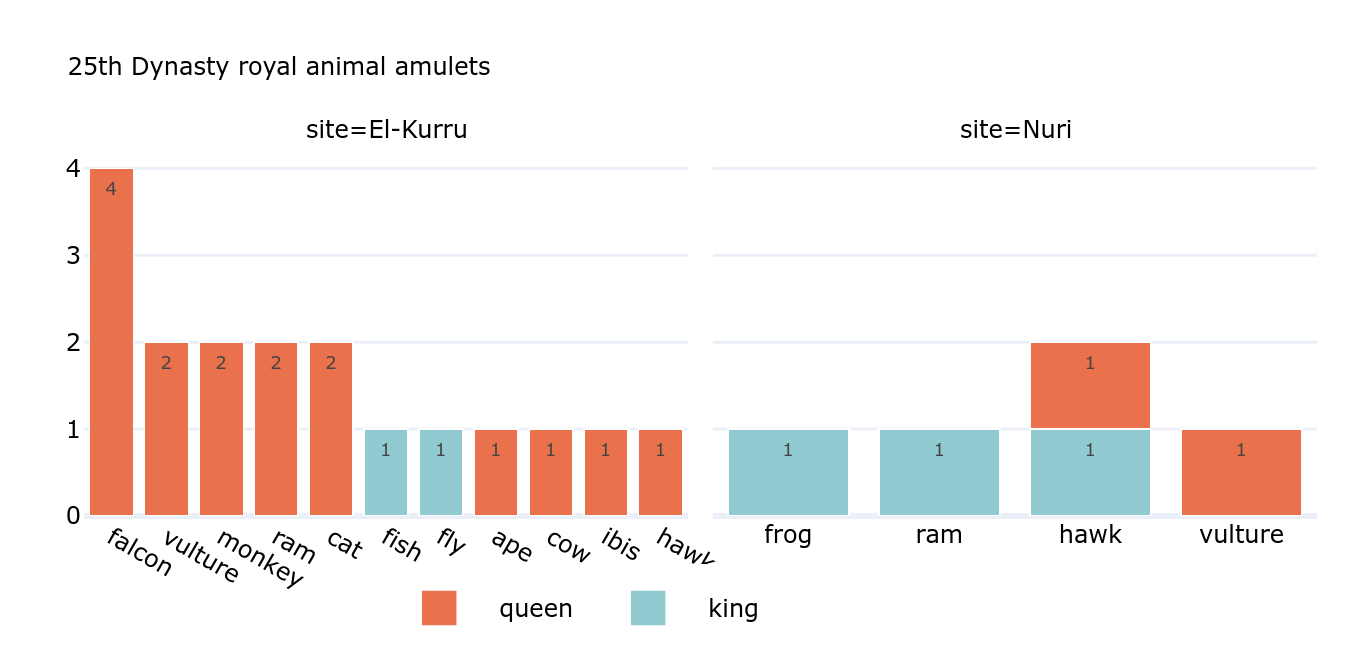
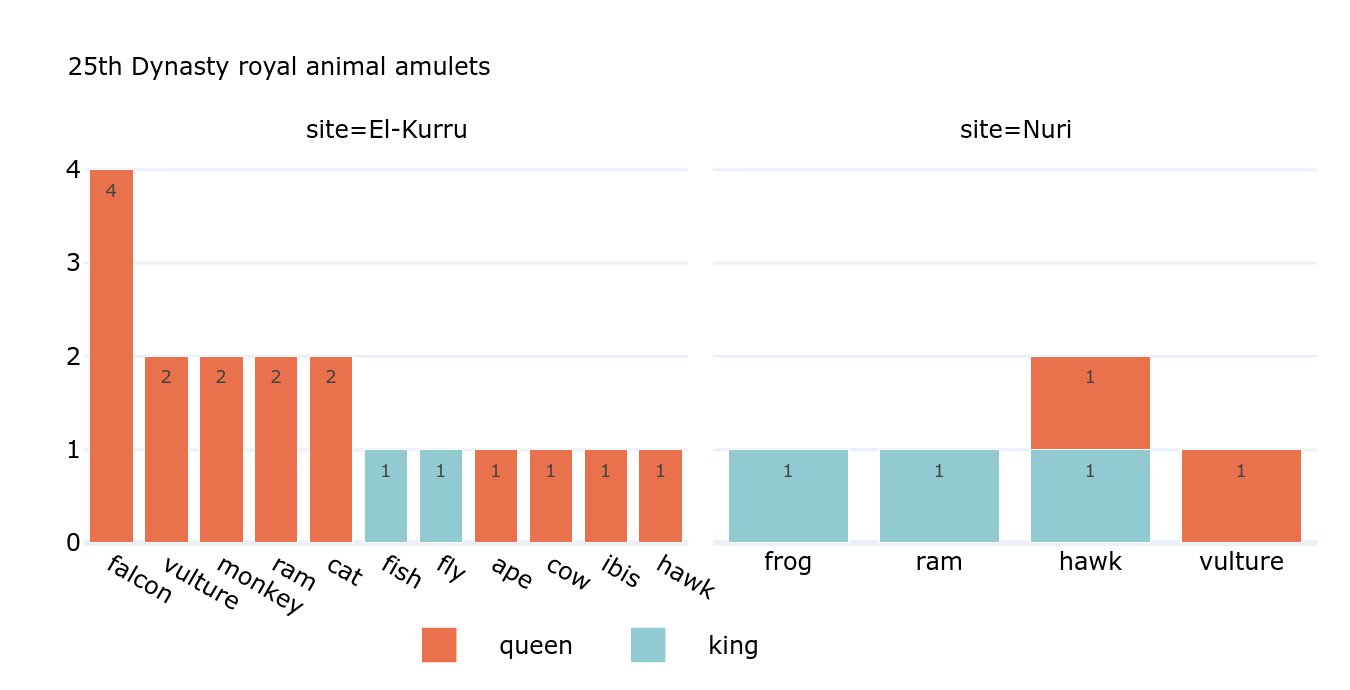
up to dtae

diff --git a/chapter5/25_with_2forms.py b/chapter5/25_with_2forms.py
@@ -66,8 +66,8 @@ fig.update_layout(
     title_font=dict(size=8),
     coloraxis=dict(
         colorbar=dict(
-            tickfont=dict(size=7),
-            title_font=dict(size=7)
+            tickfont=dict(size=8),
+            title_font=dict(size=8)
         )
     )
 )
@@ -79,8 +79,8 @@ fig.update_coloraxes(
     )
 )
 
-fig.update_traces(textposition='top right', textfont_size=6)
+fig.update_traces(textposition='top right', textfont_size=8)
 fig.update_xaxes(title_text='', tickangle=45)
 fig.update_yaxes(title_text='')
 
-pio.write_image(fig, 'images/chapter5/25_with_2forms.png',scale=4, width=350, height=300)
+pio.write_image(fig, 'images/chapter5/25_with_2forms.png',scale=4, width=400, height=300)

diff --git a/chapter5/25_objects.py b/chapter5/25_objects.py
@@ -17,7 +17,6 @@ where dating = 'napatan'
     and b.site_id in (4,5,6,7,8,9,10) 
     and temp = '25th'
     and social_group = 'non-elite'
-    and artifact_type not in ('beads', 'scarabs')
 group by 1,2
 """
 
@@ -58,7 +57,7 @@ fig.update_layout(
     title_font=dict(size=8)
 )
 
-fig.update_traces(textposition='top right', textfont_size=6)
+fig.update_traces(textposition='middle right', textfont_size=6)
 fig.update_xaxes(title_text='', categoryorder='category ascending')
 fig.update_yaxes(title_text='', categoryorder='category descending')
 

diff --git a/chapter4/25_amulets_forms_animals.py b/chapter4/25_amulets_forms_animals.py
@@ -109,4 +109,4 @@ fig.update_traces(textposition='inside', textfont_size=6)
 fig.update_xaxes(title_text='', matches=None)
 fig.update_yaxes(title_text='', dtick=1)
 
-pio.write_image(fig, 'images/chapter4/25_amulets_forms_animals.png',scale=3, width=450, height=220)
+pio.write_image(fig, 'images/chapter4/25_amulets_forms_animals.png',scale=3, width=450, height=230)

diff --git a/chapter5/25-EN_tombs.py b/chapter5/25-EN_tombs.py
@@ -30,7 +30,7 @@ fig = px.scatter(
     text="total_burials",
     title="25th Dynasty-Early Napatan non-elite tomb structures",
     labels={"total_burials": "Total"},
-    color_discrete_sequence=custom_colors,
+    color_discrete_sequence='Sunset',
     template="plotly_white"
 )
 
